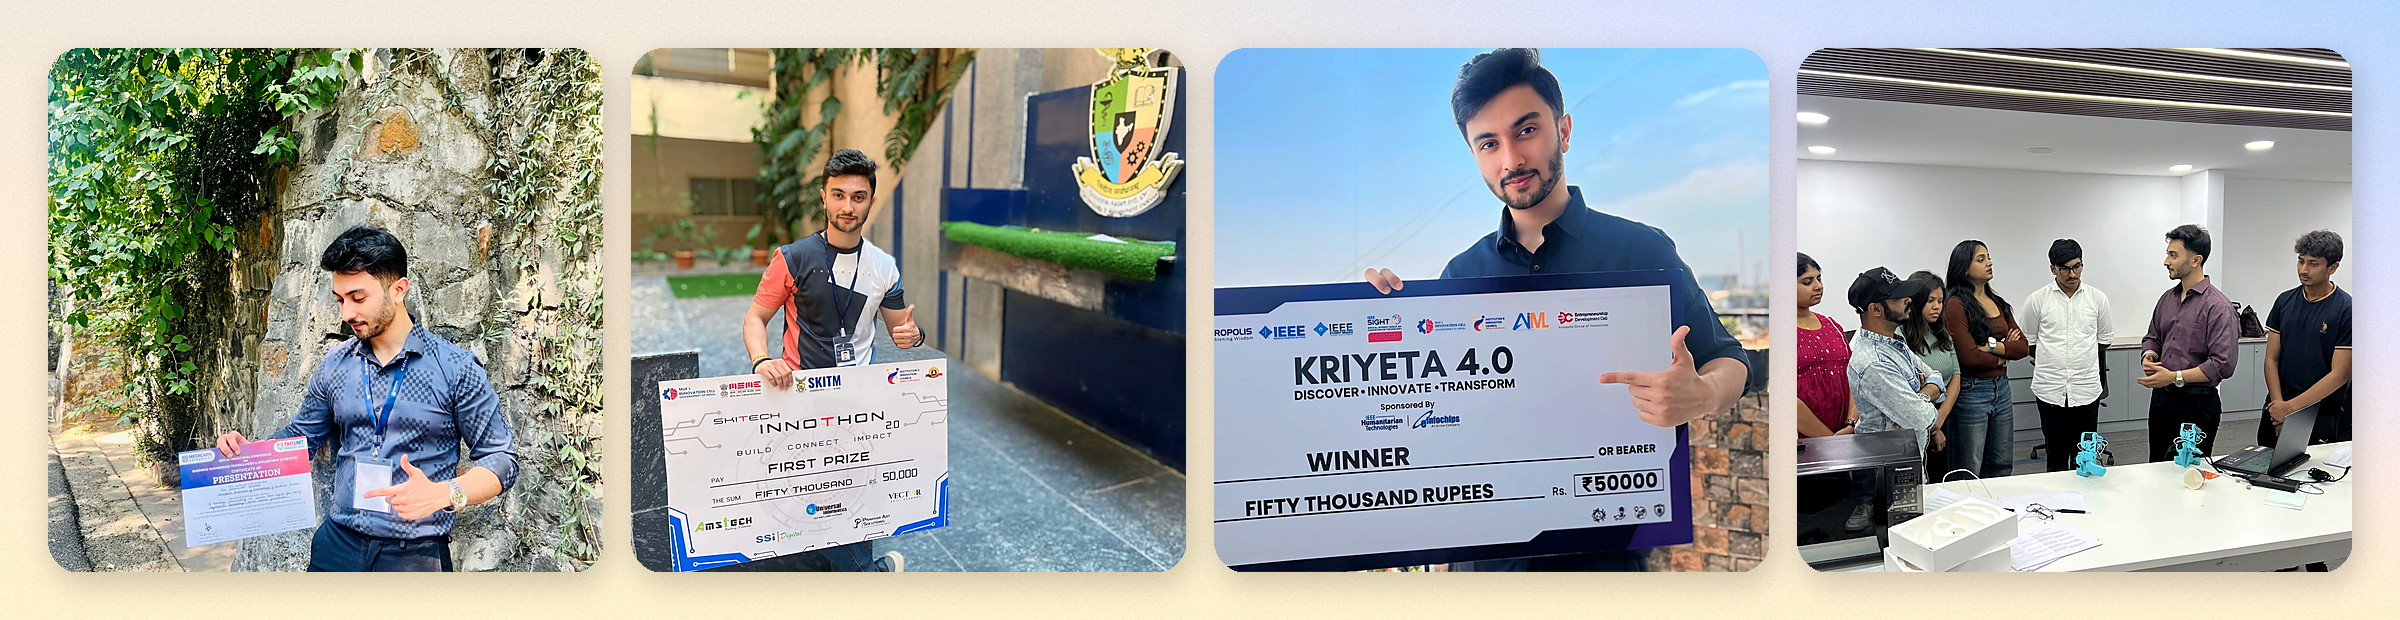
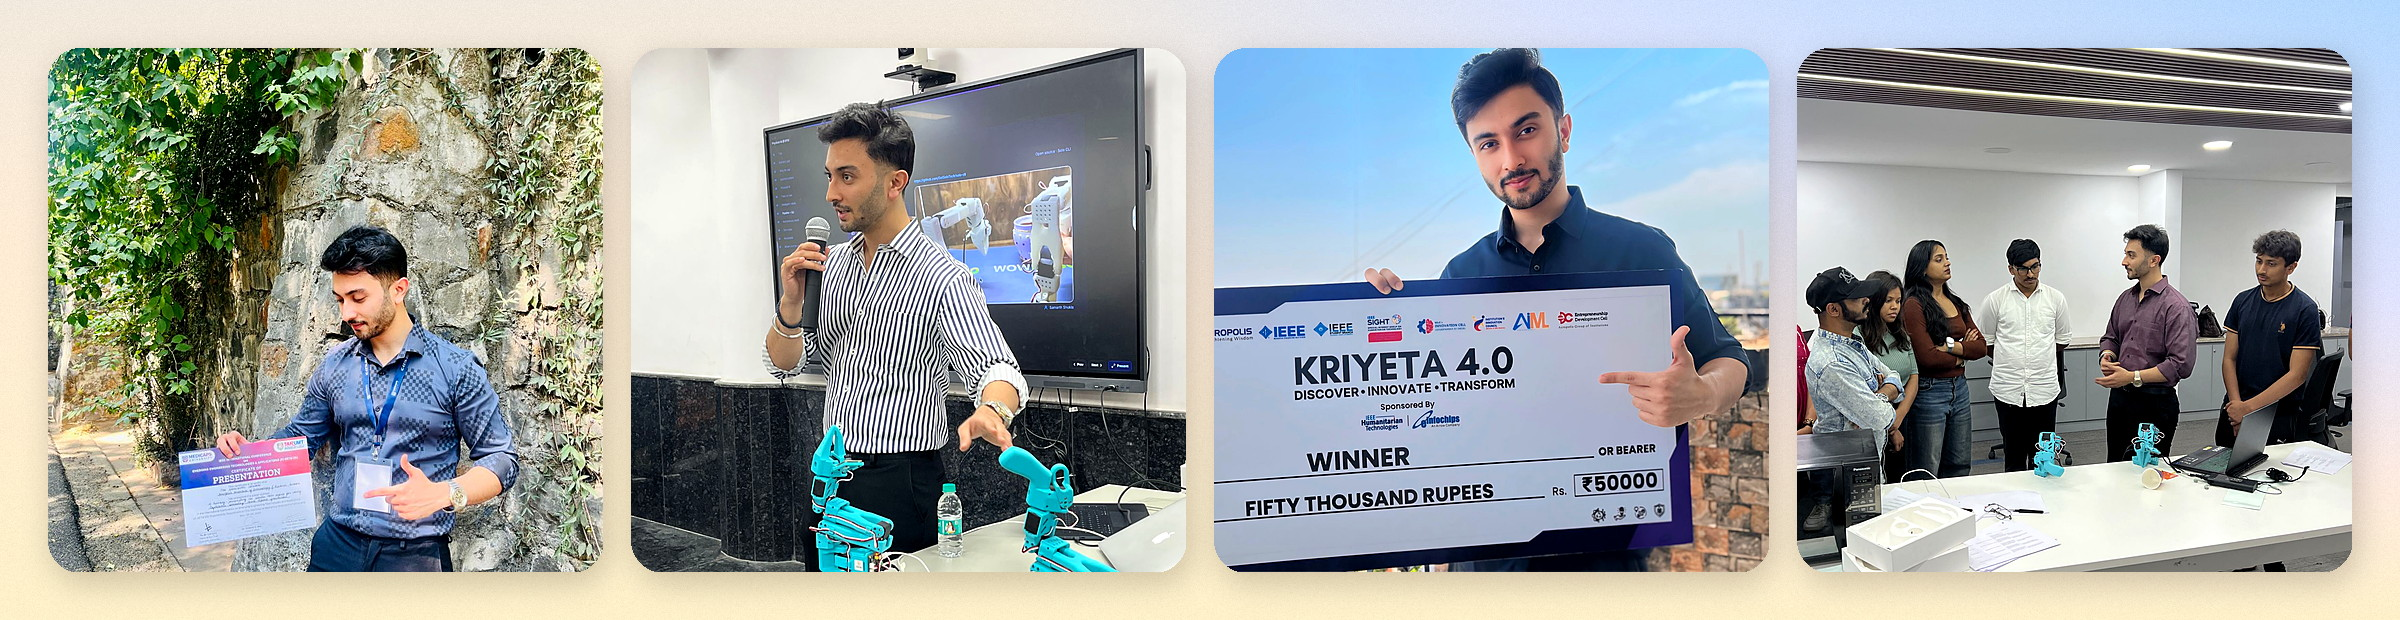
Update README with enhanced content and formatting; remove unused extracted photos

Changed region(s): [[0.25, 0.0613, 0.5, 0.95], [0.75, 0.0613, 1.0, 0.9194]]

diff --git a/README.md b/README.md
@@ -1,34 +1,57 @@
 <div align="center">
 
-<img src="./assets/hero-banner.jpg" width="100%"/>
-
-</div>
+<img src="./assets/hero-banner.jpg" width="100%" alt="Samarth Shukla — Founding AI/ML Engineer at Solo Tech"/>
 
 <br/>
 
-<div align="center">
-
-`AI INFRASTRUCTURE` · `FULL-STACK SYSTEMS` · `LLM / VLM` · `EDGE AI` · `PHYSICAL AI` · `ROBOTICS` · `DEV TOOLING`
+<img src="https://readme-typing-svg.demolab.com?font=Georgia&weight=600&size=22&duration=3600&pause=1400&color=8A2630&center=true&vCenter=true&width=760&height=46&lines=Research+in.+Production+out.;Models%2C+systems%2C+robots+%E2%80%94+shipped.;Founding+AI%2FML+Engineer+%40+Solo+Tech" alt="Research in. Production out." />
 
 <br/>
 
-**[ 002 / RECORD ]**
-🏆 10× Hackathon Winner — 9 National · 1 International · 2,000+ participants
-📚 IEEE & TechRxiv — [Money Laundering Detection](https://doi.org/10.1109/ACROSET66531.2025.11280778) · [HealthX(AI)](https://doi.org/10.36227/techrxiv.175329576.65152325/v1)
-
-**[ 003 / BUILDING ]**
-Research → production, at **[Solo Tech](https://getsolo.tech/)** · open-source: **[Solo CLI](https://github.com/GetSoloTech/solo-cli)**
+<img src="./assets/skills.svg" width="100%" alt="AI infrastructure, full-stack systems, LLMs, edge AI, physical AI, robotics, dev tooling"/>
 
 <br/>
 
-[`LinkedIn`](https://www.linkedin.com/in/samarthshuklacmu) &nbsp;·&nbsp; [`Resume`](https://docs.google.com/document/d/1ZBS85Y52l5arwUwD2i-pHaReOGmp8wI58LFkM5EtHxg/edit?usp=drive_link) &nbsp;·&nbsp; [`Solo Tech`](https://getsolo.tech/) &nbsp;·&nbsp; [`Solo CLI`](https://github.com/GetSoloTech/solo-cli)
+<table width="100%">
+  <tr>
+    <td width="33%" valign="top">
+      <img src="./assets/card-record.svg" width="100%" alt="10× hackathon winner — 9 national, 1 international, 2,000+ in the field"/>
+    </td>
+    <td width="33%" valign="top">
+      <a href="https://doi.org/10.1109/ACROSET66531.2025.11280778">
+        <img src="./assets/card-research.svg" width="100%" alt="Published research on IEEE and TechRxiv"/>
+      </a>
+    </td>
+    <td width="33%" valign="top">
+      <a href="https://getsolo.tech/">
+        <img src="./assets/card-now.svg" width="100%" alt="Building Solo Tech — research to production"/>
+      </a>
+    </td>
+  </tr>
+</table>
 
-</div>
+<details>
+<summary><b>Read the papers</b></summary>
+<br/>
+
+<a href="https://doi.org/10.1109/ACROSET66531.2025.11280778">Money Laundering Detection — IEEE</a>
+&nbsp;·&nbsp;
+<a href="https://doi.org/10.36227/techrxiv.175329576.65152325/v1">HealthX(AI) — TechRxiv</a>
+
+</details>
 
 <br/>
 
-<div align="center">
+<img src="./assets/photo-strip.jpg" width="100%" alt="Talks, wins, and builds"/>
 
-<img src="./assets/photo-strip.jpg" width="100%"/>
+<br/>
+
+<a href="https://www.linkedin.com/in/samarthshuklacmu"><img src="https://img.shields.io/badge/LinkedIn-8A2630?style=for-the-badge&logo=linkedin&logoColor=F2EADE" alt="LinkedIn"/></a>
+&nbsp;
+<a href="https://docs.google.com/document/d/1ZBS85Y52l5arwUwD2i-pHaReOGmp8wI58LFkM5EtHxg/edit?usp=drive_link"><img src="https://img.shields.io/badge/Resume-8A2630?style=for-the-badge&logo=googledocs&logoColor=F2EADE" alt="Resume"/></a>
+&nbsp;
+<a href="https://getsolo.tech/"><img src="https://img.shields.io/badge/Solo_Tech-8A2630?style=for-the-badge&logoColor=F2EADE" alt="Solo Tech"/></a>
+&nbsp;
+<a href="https://github.com/GetSoloTech/solo-cli"><img src="https://img.shields.io/badge/Solo_CLI-8A2630?style=for-the-badge&logo=github&logoColor=F2EADE" alt="Solo CLI"/></a>
 
 </div>
